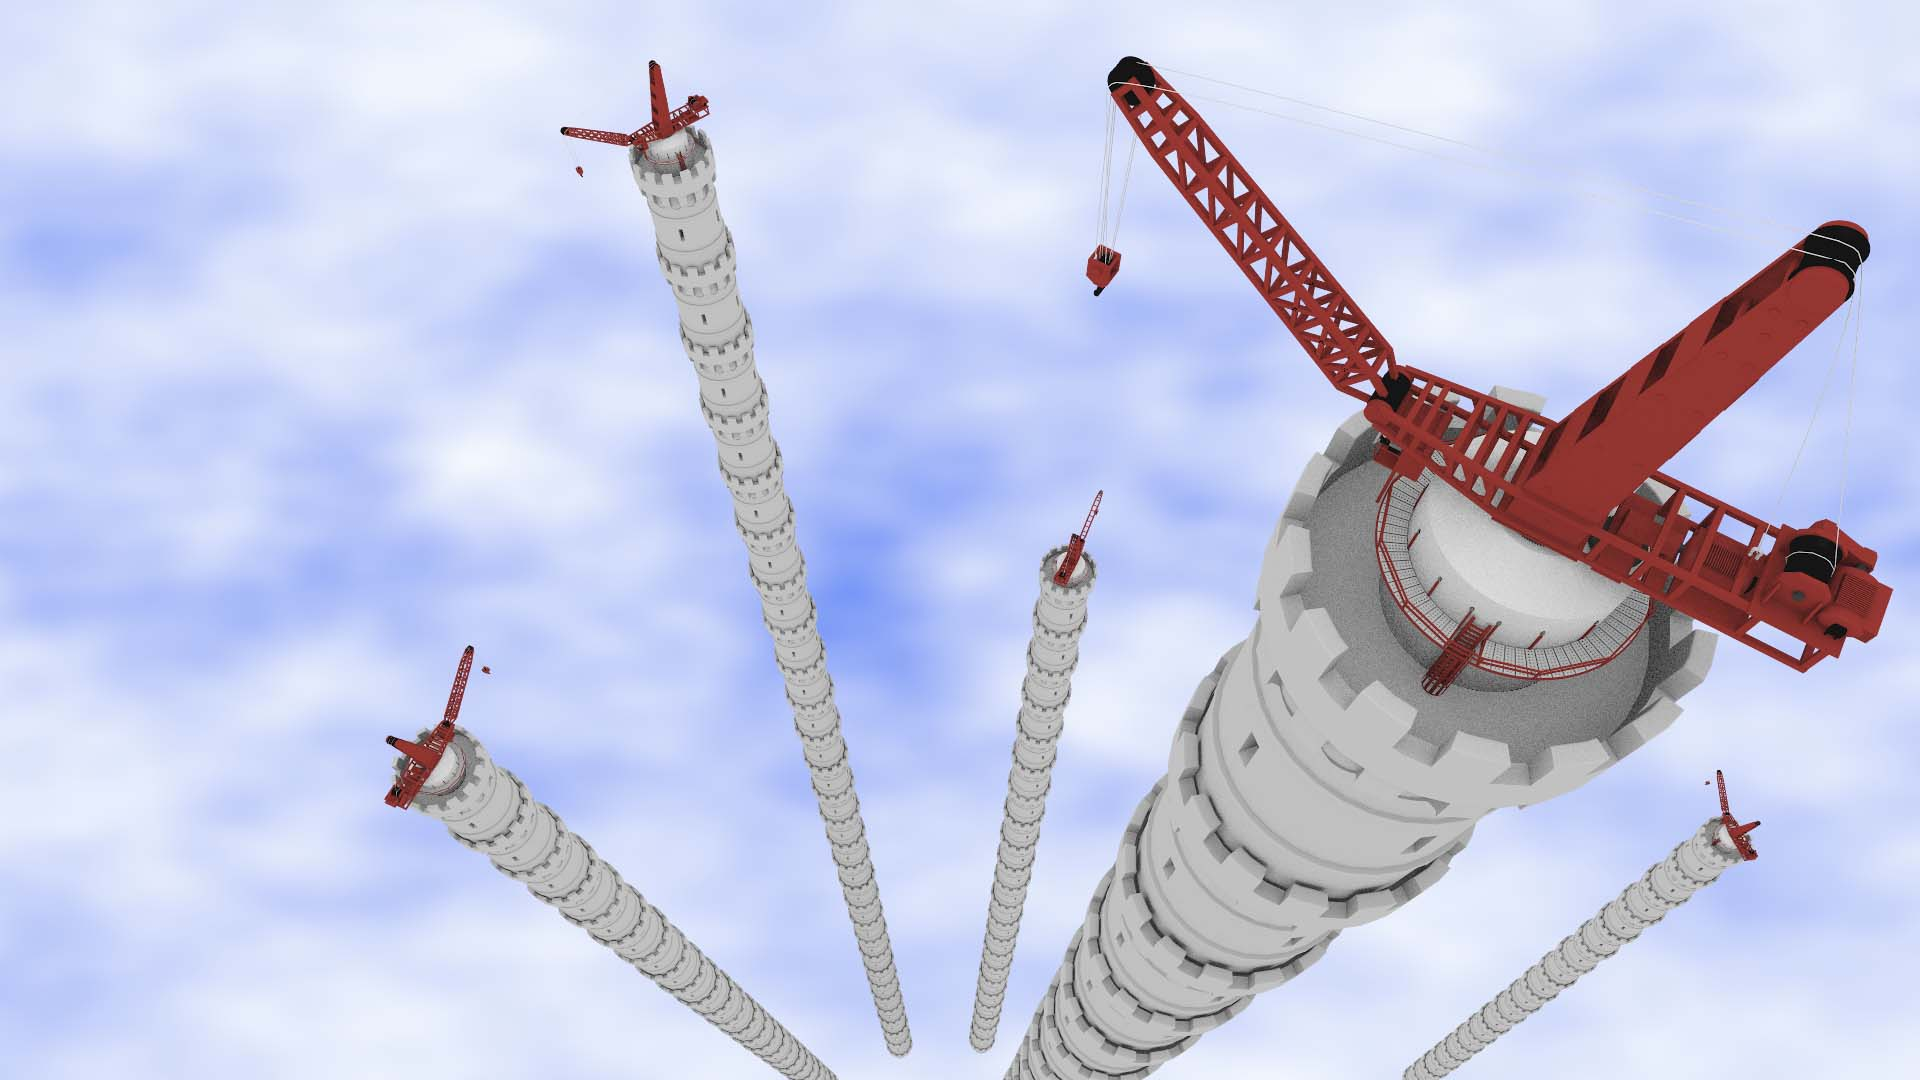
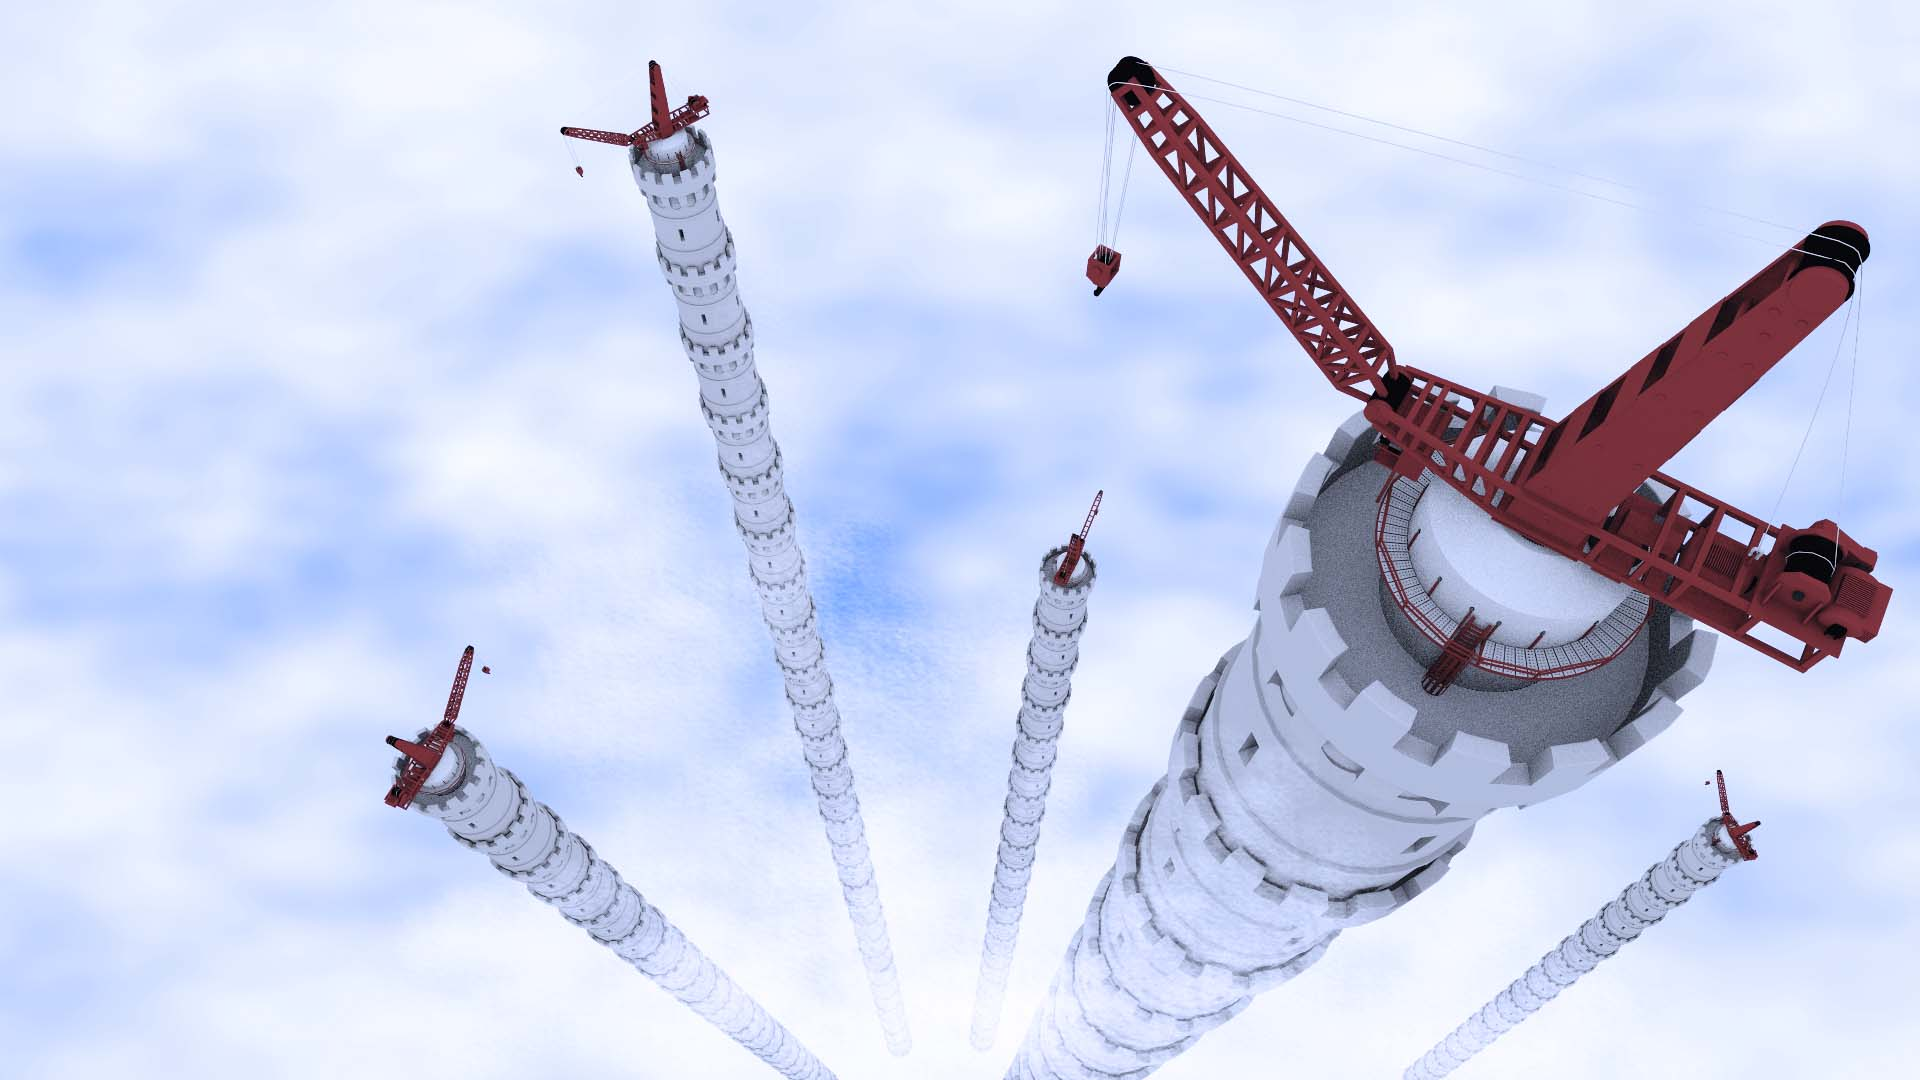
topの修正
top1.jpgのレタッチ、subtitleの調整

Changed region(s): [[0.1875, 0.0611, 1.0, 1.0], [0.7188, 0.7333, 0.9375, 1.0], [0.5625, 0.2139, 0.5938, 0.275]]

diff --git a/assets/common.css b/assets/common.css
@@ -177,12 +177,17 @@ a{
 .subtitle{
     position: absolute;
     color: #002e5c;
-    top: 30px;
+    top: 100px;
     left: 30px;
     font-weight: 300;
-    font-size: 36pt;
+    font-size: 48px;
     letter-spacing: -0.02em;
+     text-shadow: 2px 2px 1px #eee,
+    -2px 2px 1px #eee,
+    2px -2px 1px #eee,
+    -2px -2px 1px #eee;
 }
+
 #hero-content {
     height: 460px;
     background-color: #316679;
